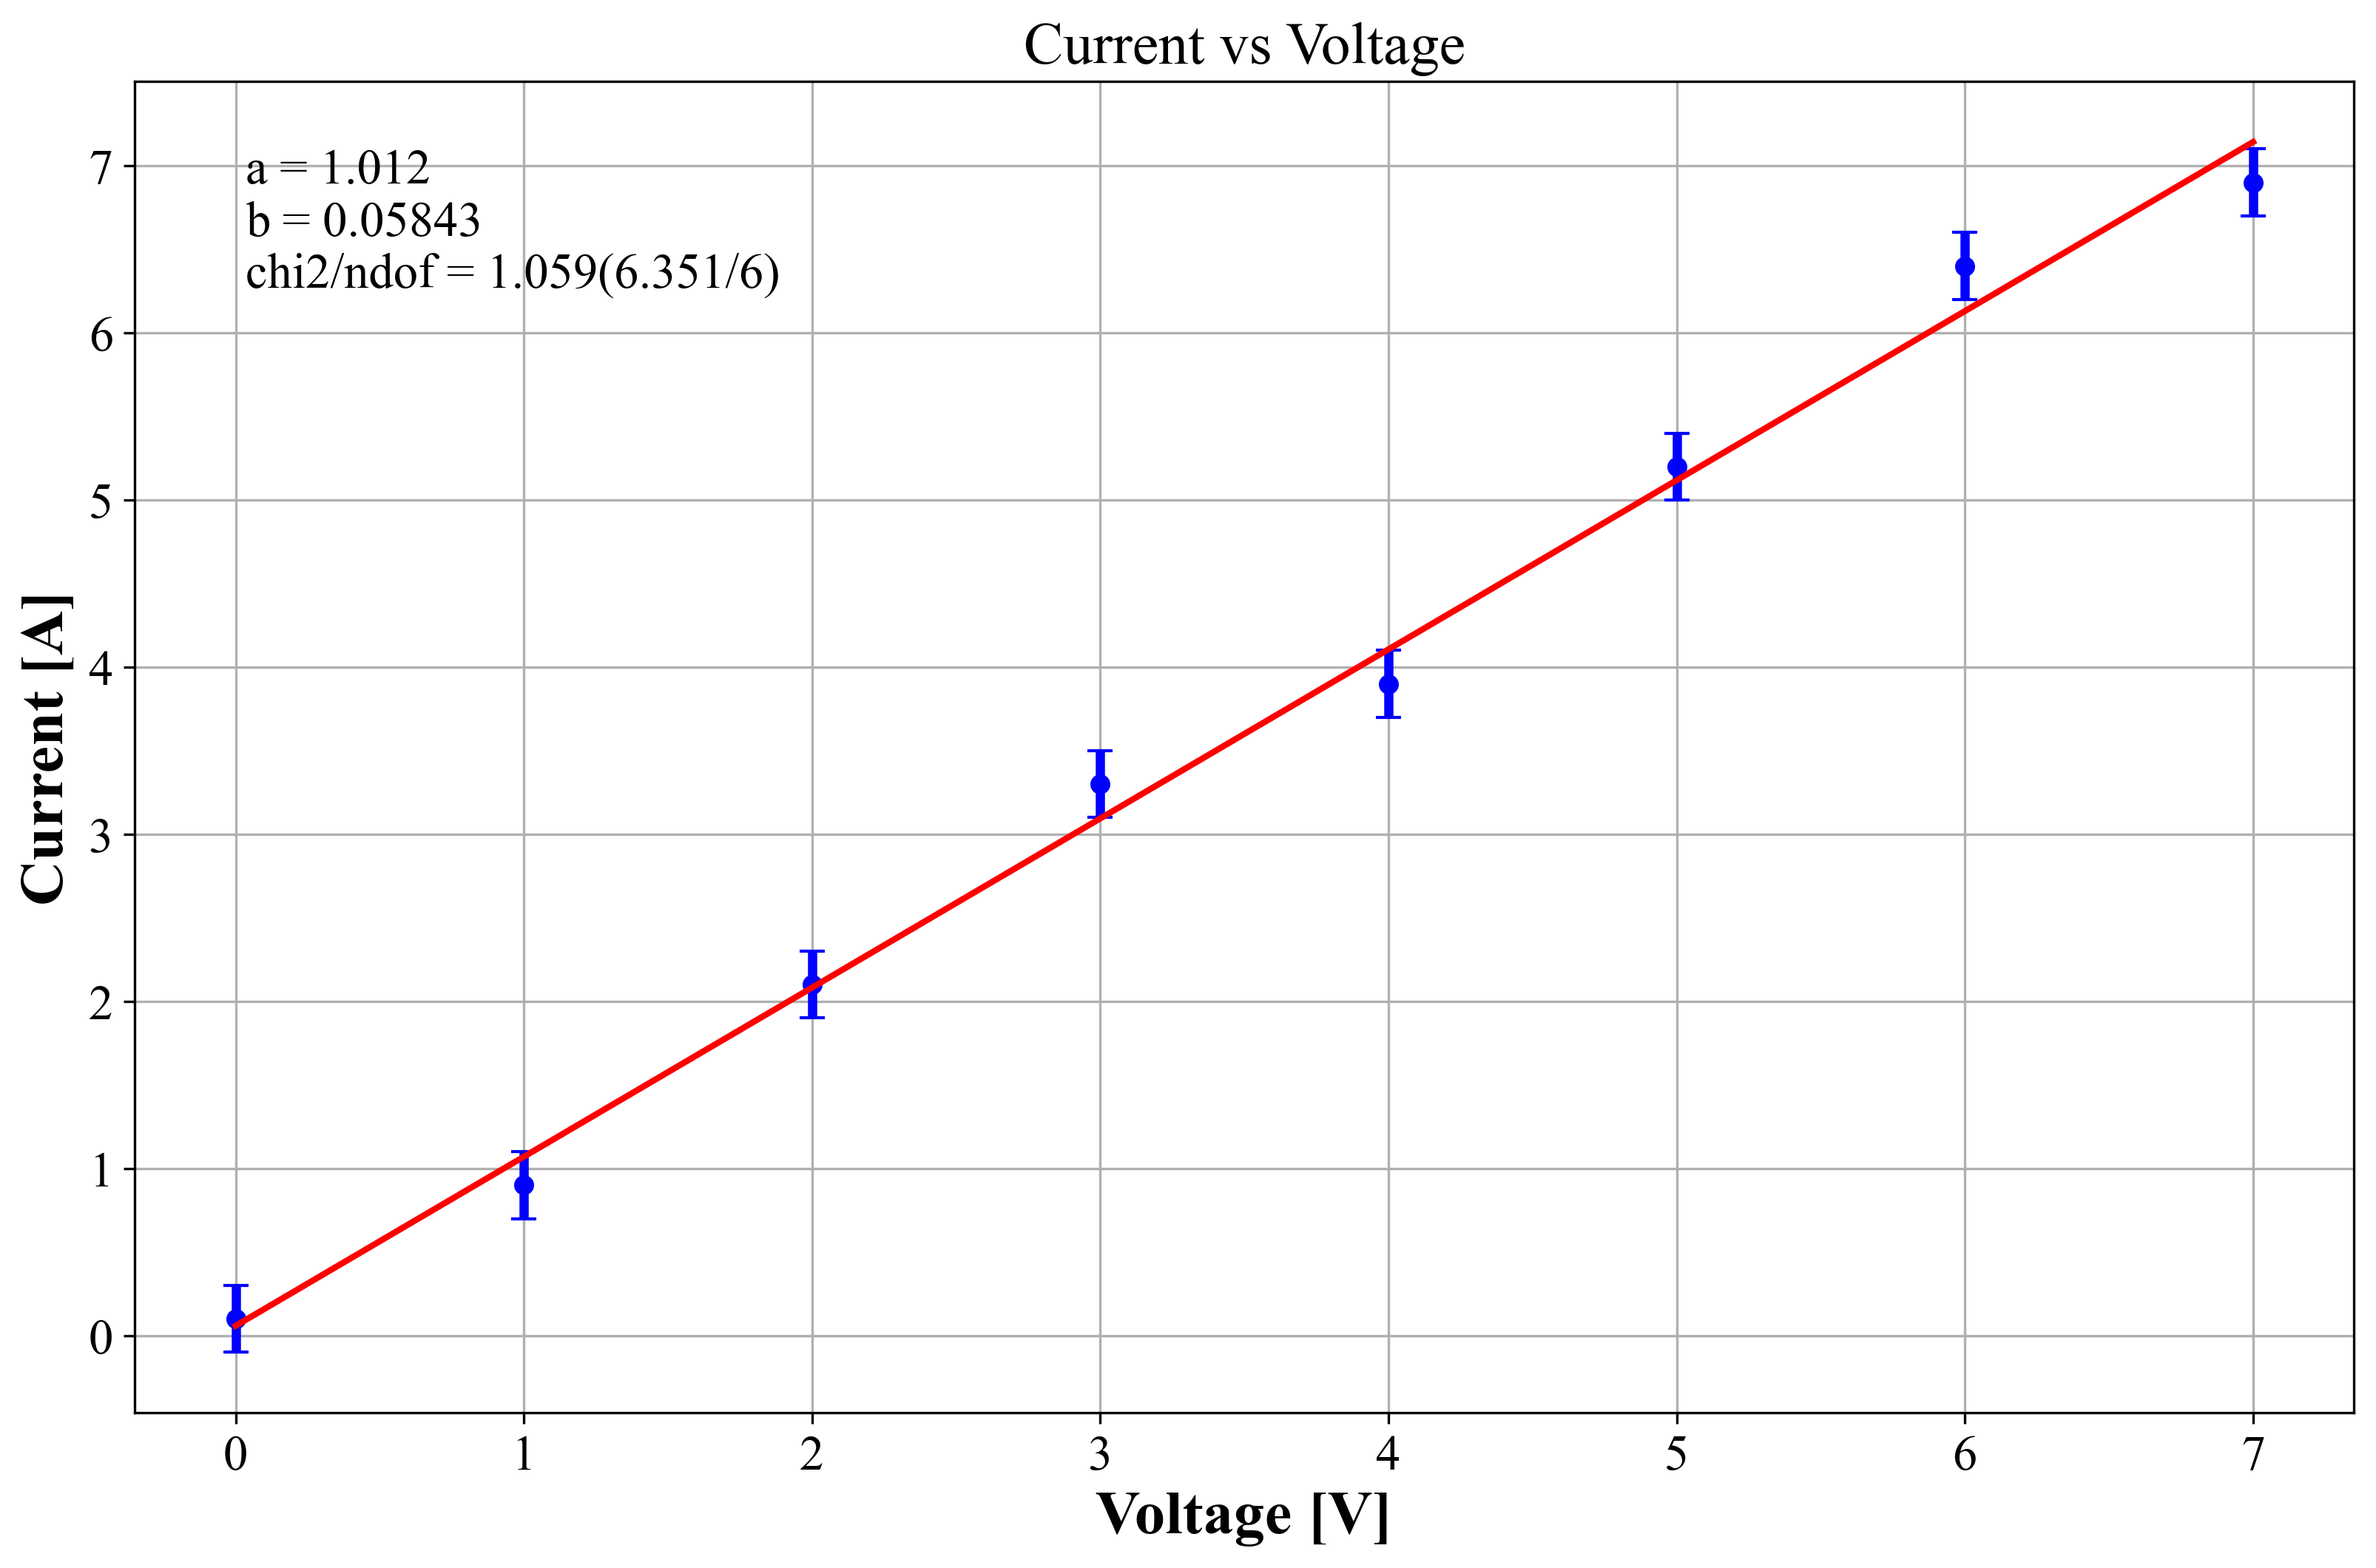
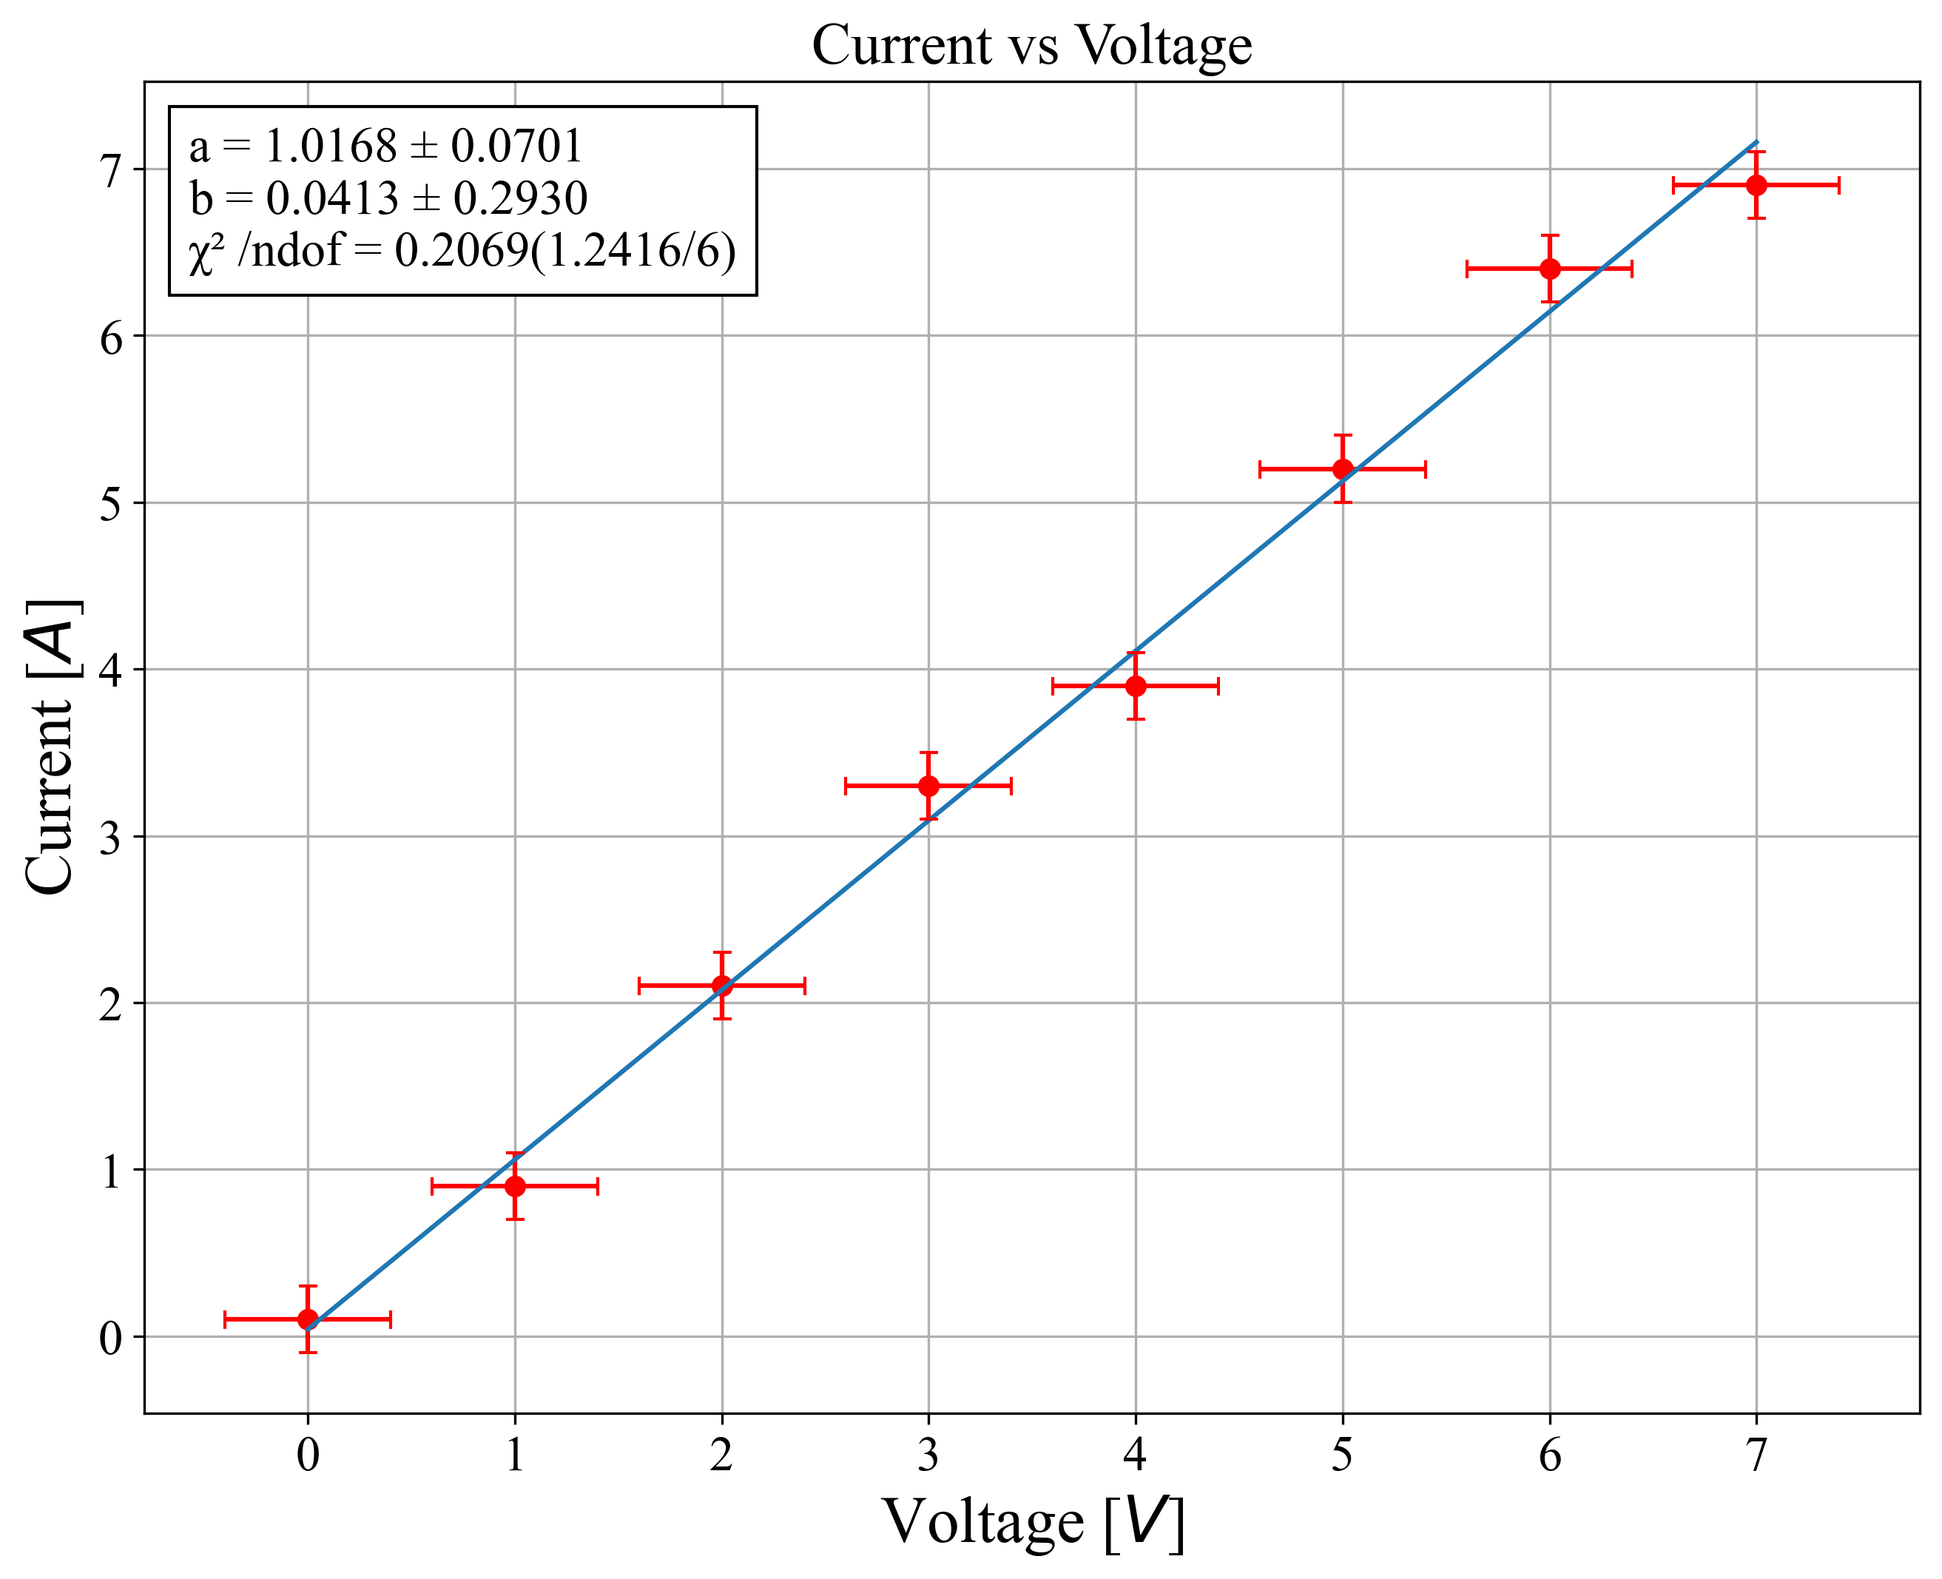
Just to make sure all is up to date.

diff --git a/regression_with_app_changes.py b/regression_with_app_changes.py
@@ -3,15 +3,16 @@ import numpy as np
 import matplotlib.pyplot as plt
 from iminuit import Minuit, describe
 from iminuit.util import make_func_code
+from PIL import Image
+import streamlit as st
 
 
 class Chi2Reg:  # This class is like Chi2Regression but takes into account dx
     # this part defines the variables the class will use
-    def __init__(self, model, x, y, dx, dy):
+    def __init__(self, model, x, y, dy):
         self.model = model  # model predicts y value for given x value
         self.x = np.array(x)  # the x values
         self.y = np.array(y)  # the y values
-        self.dx = np.array(dx)  # the x-axis uncertainties
         self.dy = np.array(dy)  # the y-axis uncertainties
         self.func_code = make_func_code(describe(self.model)[1:])
 
@@ -23,8 +24,9 @@ class Chi2Reg:  # This class is like Chi2Regression but takes into account dx
         return chi2
 
     # this part defines a function called "show" which will make a nice plot when invoked
-    def show(self, optimizer, x_title="X", y_title="Y", goodness_loc=2):
+    def show(self, optimizer, title='title', x_title="X", y_title="Y", goodness_loc=2):
         self.par = optimizer.parameters
+        self.title = title
         self.fit_arg = optimizer.fitarg
         self.chi2 = optimizer.fval
         self.ndof = len(self.x) - len(self.par)
@@ -45,12 +47,16 @@ class Chi2Reg:  # This class is like Chi2Regression but takes into account dx
         ax.plot(self.func_x, self.y_fit)  # plot the function over 10k points covering the x axis
         ax.scatter(self.x, self.y, c="red")
         # ax.errorbar(self.x, self.y, self.dy, self.dy,fmt='none',ecolor='red', capsize=3) typo here I think! dy twice instead of dy, dx
-        ax.errorbar(self.x, self.y, self.dy, self.dx, fmt='none', ecolor='red', capsize=3)
+        ax.errorbar(self.x, self.y, self.dy, fmt='none', ecolor='red', capsize=3)
         ax.set_xlabel(x_title, fontdict={"size": 21})
         ax.set_ylabel(y_title, fontdict={"size": 21})
         anchored_text = AnchoredText(text, loc=goodness_loc)
         ax.add_artist(anchored_text)
         plt.grid(True)
+        plt.title(title)
+        plt.savefig(title, dpi=300, bbox_inches='tight')
+        im = Image.open(title + '.png')
+        st.image(im)
 
 
 
@@ -74,8 +80,9 @@ class EffVarChi2Reg:  # This class is like Chi2Regression but takes into account
         return chi2
 
     # this part defines a function called "show" which will make a nice plot when invoked
-    def show(self, optimizer, x_title="X", y_title="Y", goodness_loc=2):
+    def show(self, optimizer, title="title", x_title="X", y_title="Y", goodness_loc=2):
         self.par = optimizer.parameters
+        self.title = title
         self.fit_arg = optimizer.fitarg
         self.chi2 = optimizer.fval
         self.ndof = len(self.x) - len(self.par)
@@ -102,7 +109,10 @@ class EffVarChi2Reg:  # This class is like Chi2Regression but takes into account
         anchored_text = AnchoredText(text, loc=goodness_loc)
         ax.add_artist(anchored_text)
         plt.grid(True)
-
+        plt.title(self.title)
+        plt.savefig(title, dpi=300, bbox_inches='tight')
+        im = Image.open(title + '.png')
+        st.image(im)
 
 """
 if __name__ == "__main__":

diff --git a/Lab_app.py b/Lab_app.py
@@ -4,30 +4,14 @@ import numpy as np
 import pandas as pd
 import time
 from util import chi2Reg_func, effVarChi2Reg_func
-from bgu_physics_lab_b.regression import Chi2Reg, EffVarChi2Reg
+from regression_with_app_changes import Chi2Reg, EffVarChi2Reg
 
 st.set_page_config(page_title='Physics Lab app!')
 #st.set_page_config(icon = --) Need to pass an image object (using PIL).
-"""
-This will be the flow of things (in general):\n
-1. Get the path of the excel file from the user.\n
-2. Get the names of the sheet and columns of the excel file.\n
-3. User inserts his desires: Model, parameter limits, graph title, x_label, y_label.\n
-4. Do the calculations 'behind the screen':\n
-    - Generate the minimization function (func to minimize) using Chi2Regression (of probfit) or effVarChi2Reg (of BGU_physics_Lab).\n
-    - Minimize using Minuit (Make a Minuit Object, and minimize using ob.migrad() method).\n
-    - Plot the data and the minimized function, print the parameter-values, the chi^2 val.\n
-5. Make it possible to save the figure in current work-environment (of the user).\n
-6. Make an option of exporting the code generated 'behind the screen'.\n
-
-Seems like a good start to me.
-"""
-
-
 # Can also write: st.title('Pyhsics Lab application!')
 
 st.write("""
-# Pyhsics Lab application!
+# Hello!
 ## Here we will try to make your life **easier** with a nice application, that will do the ***hard work*** for you.
 """)
 
@@ -85,9 +69,11 @@ if not model_str == 'None':
 
     # Check weather the user inserted a dx column name, and use appropriate function.
     if dx_colName == '':
+        st.write('## Chi2Regression algorithm in action...')
         chi2Reg_func(model, file_name, sheet_name, x_colName, y_colName, dy_colName, title, x_axis_name, y_axis_name)
     else:
-        effVarChi2Reg_func(model, file_name, sheet_name, x_colName, y_colName, dy_colName, title, dx_colName, x_axis_name, y_axis_name)
+        st.write('## EffVarChi2Reg algorithm in action...')
+        effVarChi2Reg_func(model, file_name, sheet_name, x_colName, y_colName, dy_colName, dx_colName, title, x_axis_name, y_axis_name)
 
 
 

diff --git a/util.py b/util.py
@@ -2,6 +2,7 @@ import streamlit as st
 import numpy as np
 import pandas as pd
 import matplotlib.pyplot as plt
+from regression_with_app_changes import Chi2Reg, EffVarChi2Reg
 from probfit import Chi2Regression
 from iminuit import Minuit
 from PIL import Image
@@ -12,14 +13,15 @@ def chi2Reg_func(model, file_name, sheet_name, x_colName, y_colName, dy_colName,
     y_data = df[y_colName].values   #[y_start:y_stop]
     dy = df[dy_colName].values      #[y_start:y_stop]
 
-    reg = Chi2Regression(model, x_data, y_data, dy)
+    reg = Chi2Reg(model, x_data, y_data, dy)
     opt = Minuit(reg)
     opt.migrad()
+    reg.show(opt, title=title, x_title=x_axis_name, y_title=y_axis_name)
 
     # plot
     # Better to put all this in a separate function, easier to the eye..
 
-
+    """
     plt.rc("font", size=16, family="Times New Roman")
     fig = plt.figure(figsize=(10, 6))
     ax = fig.add_axes([0, 0, 1, 1])
@@ -36,12 +38,23 @@ def chi2Reg_func(model, file_name, sheet_name, x_colName, y_colName, dy_colName,
     im = Image.open(title + '.png')
     st.image(im)
 
+    """
+
     # Now must make an option to DOWNLOAD the image (not hard.. see documentation or 'testing_shit' file).
 
 
 
-def effVarChi2Reg_func(model, file_name, sheet_name, x_data, y_data, dy, dx, title, x_axis_name, y_axis_name):
-    st.write('effVarChi2Reg_func')
+def effVarChi2Reg_func(model, file_name, sheet_name, x_colName, y_colName, dy_colName, dx_colName, title, x_axis_name, y_axis_name):
+    df = pd.read_excel(file_name, sheet_name=sheet_name)
+    x_data = df[x_colName].values  # [x_start:x_stop]
+    y_data = df[y_colName].values  # [y_start:y_stop]
+    dy = df[dy_colName].values  # [y_start:y_stop]
+    dx = df[dx_colName].values  # [x_start:x_stop]
+
+    reg = EffVarChi2Reg(model, x_data, y_data, dx, dy)
+    opt = Minuit(reg)
+    opt.migrad()
+    reg.show(opt, title=title, x_title=x_axis_name, y_title=y_axis_name)
 
 
 
